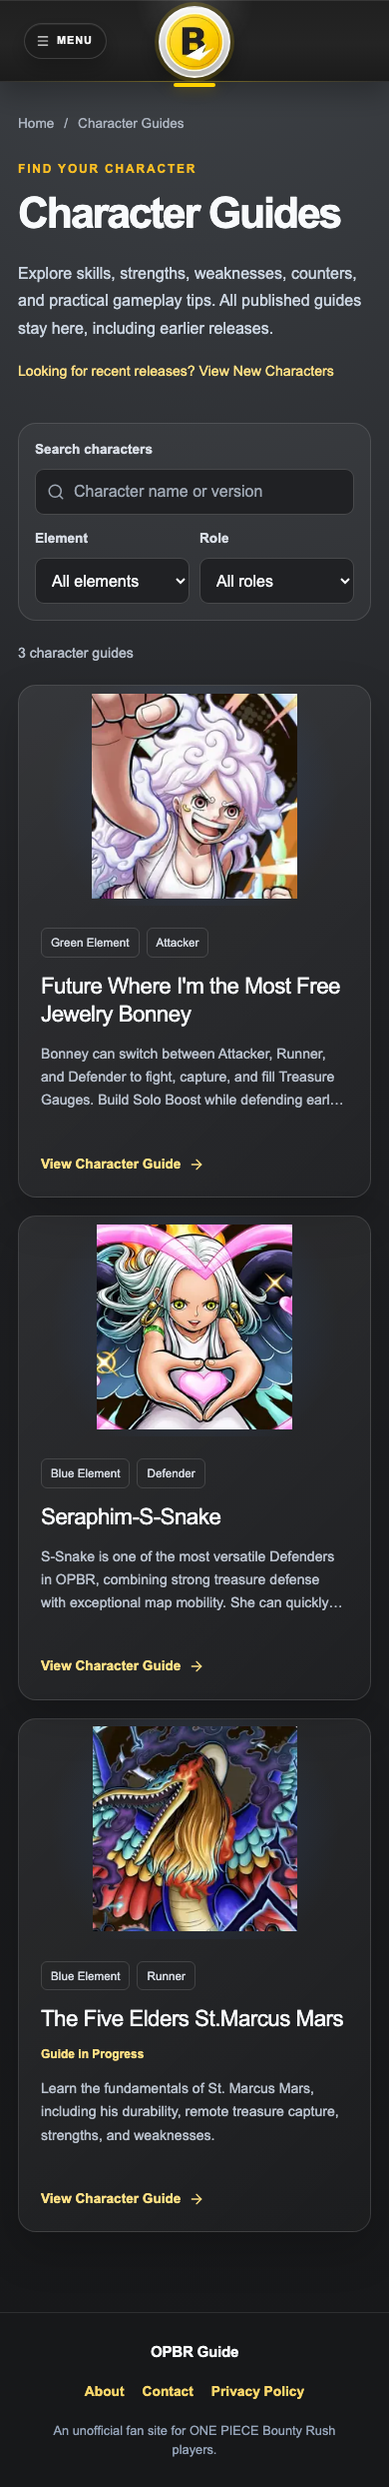
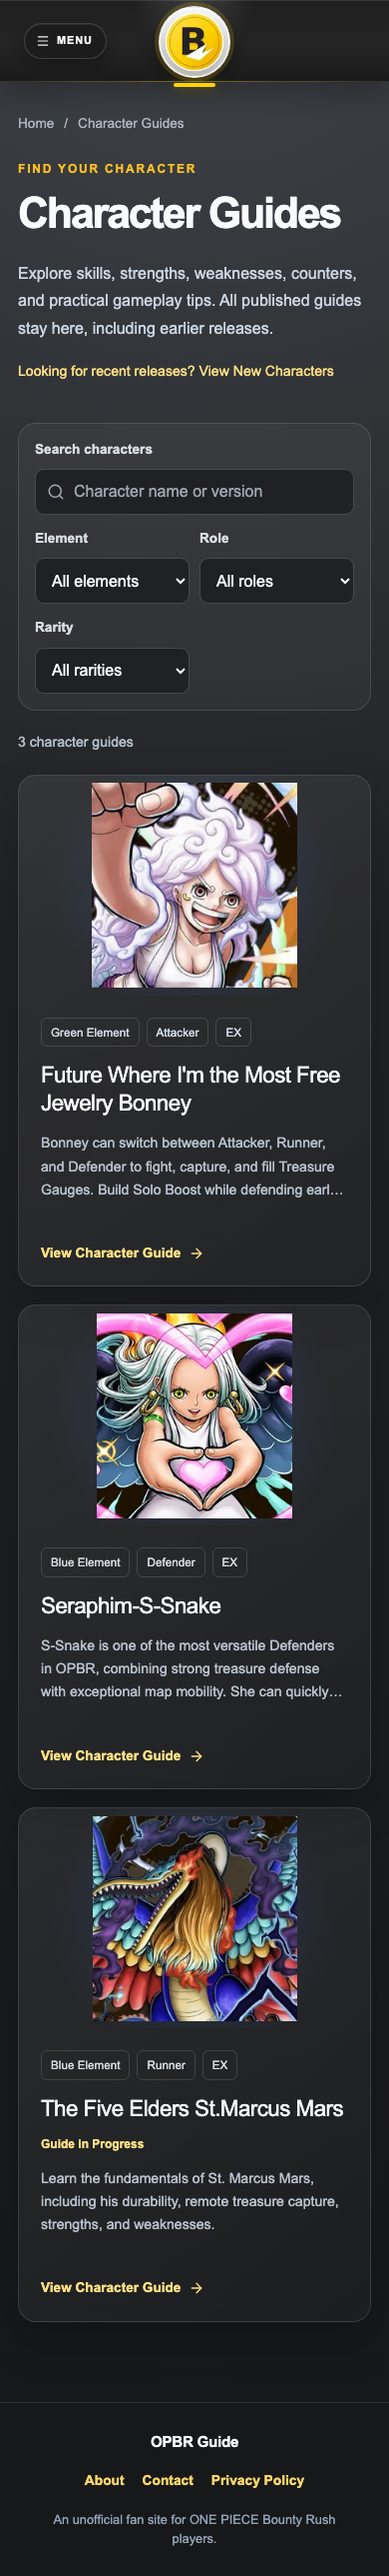
Add shared Simulator rarity filter to Character Guides

diff --git a/src/app/(mainPages)/character-guides/CharacterGuideDirectory.tsx b/src/app/(mainPages)/character-guides/CharacterGuideDirectory.tsx
@@ -4,6 +4,8 @@ import { useState } from "react";
 import Image from "next/image";
 import Link from "next/link";
 import { ArrowRight, Search } from "lucide-react";
+import { characterGradeLabels } from "@/data/characters/grades";
+import type { Character } from "@/data/characters/type";
 import { filterCharacterGuideEntries, type CharacterGuideEntry } from "@/lib/character-guide-directory";
 import styles from "./page.module.css";
 
@@ -11,11 +13,14 @@ export default function CharacterGuideDirectory({ entries }: { entries: Characte
   const [query, setQuery] = useState("");
   const [element, setElement] = useState("");
   const [role, setRole] = useState("");
-  const visibleEntries = filterCharacterGuideEntries(entries, query, element, role);
+  const [grade, setGrade] = useState("");
+  const visibleEntries = filterCharacterGuideEntries(entries, query, element, role, grade);
+  const grades = (Object.keys(characterGradeLabels) as Character["grade"][])
+    .filter((value) => value !== "unknown" || entries.some((entry) => entry.grade === "unknown"));
   const elements = [...new Set(entries.map((entry) => entry.element))].sort();
   const roles = [...new Set(entries.map((entry) => entry.role))].sort();
-  const hasFilters = Boolean(query || element || role);
-  const resetFilters = () => { setQuery(""); setElement(""); setRole(""); };
+  const hasFilters = Boolean(query || element || role || grade);
+  const resetFilters = () => { setQuery(""); setElement(""); setRole(""); setGrade(""); };
 
   if (!entries.length) {
     return <section className={styles.empty} aria-labelledby="empty-heading">
@@ -49,6 +54,15 @@ export default function CharacterGuideDirectory({ entries }: { entries: Characte
             {roles.map((value) => <option key={value} value={value}>{value.charAt(0).toUpperCase() + value.slice(1)}</option>)}
           </select>
         </div>
+        <div className={styles.filterField}>
+          <label htmlFor="guide-rarity">Rarity</label>
+          <select id="guide-rarity" value={grade} onChange={(event) => setGrade(event.target.value)}>
+            <option value="">All rarities</option>
+            {grades.map((value) => <option key={value} value={value}>
+              {value === "unknown" ? `Unclassified (${characterGradeLabels[value]})` : characterGradeLabels[value]}
+            </option>)}
+          </select>
+        </div>
       </div>
       <div className={styles.results}>
         <p role="status" aria-live="polite" aria-atomic="true">
@@ -69,6 +83,7 @@ export default function CharacterGuideDirectory({ entries }: { entries: Characte
                 <div className={styles.cardBody}>
                   <div className={styles.badges}>
                     <span>{entry.element} element</span><span>{entry.role}</span>
+                    <span>{entry.grade === "unknown" ? `Unclassified (${characterGradeLabels[entry.grade]})` : characterGradeLabels[entry.grade]}</span>
                   </div>
                   <h2>{entry.name}</h2>
                   {entry.notice && <p className={styles.notice}>{entry.notice}</p>}

diff --git a/src/lib/character-guide-directory.ts b/src/lib/character-guide-directory.ts
@@ -1,7 +1,8 @@
+import { normalizeCharacterGrade } from "@/data/characters/grades";
 import type { CharacterGuide } from "@/data/character-guides/type";
 import type { Character } from "@/data/characters/type";
 
-export type CharacterGuideEntry = Pick<Character, "id" | "name" | "image" | "element" | "role"> & {
+export type CharacterGuideEntry = Pick<Character, "id" | "name" | "image" | "element" | "role" | "grade"> & {
   summary: string;
   notice?: string;
 };
@@ -16,9 +17,9 @@ export function createCharacterGuideEntries(
     if (guide.characterId !== id || !Object.hasOwn(characters, id)) {
       throw new Error(`Character Guide cannot resolve its character: ${id}`);
     }
-    const { name, image, element, role } = characters[id];
+    const { name, image, element, role, grade } = characters[id];
     return {
-      id, name, image, element, role,
+      id, name, image, element, role, grade: normalizeCharacterGrade(grade),
       summary: guide.guideOverview?.description?.trim() || guide.quickStrengths[0] || "",
       ...(guide.notice && { notice: guide.notice.title }),
     };
@@ -31,12 +32,13 @@ function normalizeSearch(value: string): string {
 }
 
 export function filterCharacterGuideEntries(
-  entries: CharacterGuideEntry[], query: string, element: string, role: string,
+  entries: CharacterGuideEntry[], query: string, element: string, role: string, grade = "",
 ): CharacterGuideEntry[] {
   const words = normalizeSearch(query).split(/\s+/).filter(Boolean);
   return entries.filter((entry) => {
     const name = normalizeSearch(entry.name);
     return (!element || entry.element === element) && (!role || entry.role === role)
+      && (!grade || entry.grade === grade)
       && words.every((word) => name.includes(word));
   });
 }

diff --git a/src/app/(mainPages)/character-guides/page.module.css b/src/app/(mainPages)/character-guides/page.module.css
@@ -9,7 +9,7 @@
 .relatedLink { display: inline-block; margin-top: 18px; color: #ffe084; font-size: .88rem; line-height: 1.6; text-underline-offset: 4px; }
 .relatedLink:hover { text-decoration: underline; }
 .directory { margin-top: 40px; }
-.filters { display: grid; grid-template-columns: minmax(0, 1fr) repeat(2, minmax(150px, .4fr)); gap: 16px; padding: 22px; border: 1px solid rgb(255 255 255 / 12%); border-radius: 18px; background: rgb(255 255 255 / 4%); }
+.filters { display: grid; grid-template-columns: minmax(0, 1fr) repeat(3, minmax(130px, .35fr)); gap: 16px; padding: 22px; border: 1px solid rgb(255 255 255 / 12%); border-radius: 18px; background: rgb(255 255 255 / 4%); }
 .filterField { display: flex; min-width: 0; flex-direction: column; gap: 9px; color: #d8dde5; font-size: .85rem; font-weight: 700; }
 .filters input, .filters select { width: 100%; min-width: 0; min-height: 46px; padding: 10px 12px; border: 1px solid rgb(255 255 255 / 18%); border-radius: 9px; background: #202124; color: #f8fafc; font-size: 1rem; font-weight: 400; }
 .filters input::placeholder { color: #9ea7b3; opacity: 1; }
@@ -40,7 +40,7 @@
 .empty h2 { margin: 0; font-size: 1.4rem; }
 .empty p { margin: 12px 0 22px; color: #b8c0cc; line-height: 1.6; }
 .content :is(a, button, input, select):focus-visible { outline: 3px solid #fbbf24; outline-offset: 4px; }
-@media (max-width: 1023px) { .grid { grid-template-columns: repeat(2, minmax(0, 1fr)); } }
+@media (max-width: 1023px) { .filters { grid-template-columns: repeat(3, minmax(0, 1fr)); } .searchLabel { grid-column: 1 / -1; } .grid { grid-template-columns: repeat(2, minmax(0, 1fr)); } }
 @media (max-width: 719px) {
   .page { padding: 32px 0 80px; }
   .content { padding-inline: 18px; }

diff --git a/src/components/character-frame/CharacterFrame.tsx b/src/components/character-frame/CharacterFrame.tsx
@@ -1,19 +1,7 @@
 import Image from "next/image";
+import { characterGradeLabels } from "@/data/characters/grades";
 import type { Character } from "@/data/characters/type";
 import styles from "./CharacterFrame.module.css";
-
-const gradeLabels: Record<Character["grade"], string> = {
-  ex: "EX",
-  bf: "BF",
-  sp: "SP",
-  "star-4": "4★",
-  "star-3": "3★",
-  "star-2": "2★",
-  free: "FREE",
-  exchange: "EXCH",
-  cola: "COLA",
-  unknown: "?",
-};
 
 const gradeStyles: Record<Character["grade"], string> = {
   ex: styles.ex,
@@ -42,7 +30,7 @@ export default function CharacterFrame({
 
   return (
     <div className={`${styles.frame} ${gradeStyles[character.grade]} ${sizeClass}`}>
-      <span className={styles.badge}>{gradeLabels[character.grade]}</span>
+      <span className={styles.badge}>{characterGradeLabels[character.grade]}</span>
       <Image
         className={styles.image}
         src={character.image}

diff --git a/src/data/characters/grades.ts b/src/data/characters/grades.ts
@@ -1,0 +1,22 @@
+import type { Character } from "./type";
+
+// Shared labels used by Scout Simulator result cards and guide filters.
+// These are the catalog's existing grades, not inferred star counts or names.
+export const characterGradeLabels: Record<Character["grade"], string> = {
+  ex: "EX",
+  bf: "BF",
+  sp: "SP",
+  "star-4": "4★",
+  "star-3": "3★",
+  "star-2": "2★",
+  free: "FREE",
+  exchange: "EXCH",
+  cola: "COLA",
+  unknown: "?",
+};
+
+export function normalizeCharacterGrade(value: unknown): Character["grade"] {
+  return typeof value === "string" && Object.hasOwn(characterGradeLabels, value)
+    ? value as Character["grade"]
+    : "unknown";
+}

diff --git a/docs/character-guides-qa/README.md b/docs/character-guides-qa/README.md
@@ -10,9 +10,9 @@ Implemented on `feat/character-guides` in `/Users/sasakiryou/Desktop/OPBR/opbr-c
 - Seraphim-S-Snake — blue / defender.
 - The Five Elders St.Marcus Mars — blue / runner, with its existing **Guide in Progress** notice.
 
-Names, portraits, element, and role come from the character catalog. Summaries come from the guide overview, falling back to its first quick strength. No guide text or character metadata is maintained twice. An unregistered character or draft is not listed. Nusjuro is absent at this committed base; registering its guide later makes it appear automatically after rebuilding.
+Names, portraits, element, role, and rarity grade come from the character catalog. Summaries come from the guide overview, falling back to its first quick strength. No guide text or character metadata is maintained twice. An unregistered character or draft is not listed. Nusjuro is absent at this committed base; registering its guide later makes it appear automatically after rebuilding.
 
-The list sorts by full version name; cards retain the full name and unique character ID/URL. Name search tolerates case, punctuation, and word order. Element and role options are derived only from listed entries. Search and both filters combine; result counts are announced with a polite live region. Clear filters and Show all guides reset all three controls. Empty registry and empty results have distinct states. Card portraits have explicit dimensions and decorative empty alt text because the full character name already labels each link. The first three portraits load eagerly; subsequent portraits load lazily. The client receives only projected card fields, not full guides or the entire character catalog.
+The list sorts by full version name; cards retain the full name and unique character ID/URL. Name search tolerates case, punctuation, and word order. Element and role options are derived only from listed entries. Rarity options use the shared Scout Simulator grade labels; unknown is offered only if a listed entry needs it. Name search and all three filters combine; result counts are announced with a polite live region. Clear filters and Show all guides reset all four controls. Empty registry and empty results have distinct states. Card portraits have explicit dimensions and decorative empty alt text because the full character name already labels each link. The first three portraits load eagerly; subsequent portraits load lazily. The client receives only projected card fields, not full guides or the entire character catalog.
 
 Home, the shared Menu, and New Characters link to the directory. Existing individual guide URLs/body/data stay unchanged. The directory has title, description, canonical, Open Graph/Twitter metadata, and a sitemap entry.
 
@@ -24,13 +24,13 @@ Place the supplied artwork in `public/home/character-guides.webp` and replace `i
 
 - `npm run lint`: pass, no warnings/errors.
 - `node node_modules/typescript/bin/tsc --noEmit --incremental false`: pass; production build also passed TypeScript.
-- `npm test`: 14/14 pass, including registry completeness, post-expiry availability, real summary projection, empty registry, name search/combined filters, and a newly registered alternate version.
+- `npm test`: 17/17 pass, including registry completeness, post-expiry availability, real summary projection, empty registry, name search/combined filters, and a newly registered alternate version.
 - `npm run build`: pass, Webpack / Next.js 16.3.4, 71 generated pages, `/character-guides` statically rendered. Existing Inter download uses the network. Logs saved alongside screenshots.
 - `TEST_BASE_URL=http://127.0.0.1:3203 npm run test:http`: 6/6 pass, covering all published routes, canonical/title/headings, 404/noindex, exact sitemap, registry links and real data, and Home/New Characters entry points.
-- Production Chromium: 1440, 390, and 320px. Verified exact card coverage, full names, generated filter options, combined/no-results/reset paths, every guide link, keyboard Tab/Enter/focus rings, Menu/Home entries, all existing Home links, image loading/alt/reserved dimensions, and no horizontal overflow. Expired Mars remains in the directory while absent from New Characters at the October 2 verification date.
+- Production Chromium: 1440, 390, and 320px. Verified exact card coverage, full names, generated filter options and shared rarity labels, four-control combined/no-results/reset paths, every guide link, keyboard Tab/Enter/focus rings, Menu/Home entries, all existing Home links, image loading/alt/reserved dimensions, and no horizontal overflow. Expired Mars remains in the directory while absent from New Characters at the October 2 verification date.
 - Read-only local fixtures rendered the actual directory component/CSS with zero entries and 24 distinct versions including a very long unbroken name. Verified zero-state UI, unique links, no horizontal overflow at 320px, and 21 lazy portraits after the first three. Fixture data was never registered or published. Fixtures cover layout/SSR; interactive filtering is tested against real production data.
 - JS runtime and relevant route/image assets: pass. The existing shared Vercel Analytics inclusion requests `/_vercel/insights/script.js` and returns 404 on the local production server. Those 18 console resource messages are recorded separately in `browser-results.txt`; the existing `src/app/layout.tsx` and analytics integration are unchanged.
-- Visual inspection: desktop/320/390 directory, Home entry, no-results, empty-registry, and long-name screenshots. At 320px the element/role controls stack to keep selected text readable; 390px retains two columns.
+- Visual inspection: desktop/320/390 directory, Home entry, no-results, empty-registry, and long-name screenshots. At 320px the element/role/rarity controls stack to keep selected text readable; 390px retains two columns.
 
 The first sandboxed HTTP run could not reach localhost; the same suite then passed with local network permission. No tests remain blocked. Disk space was checked before work (~14GiB) and after the build (~11GiB); installed dependencies were reused through an ignored `node_modules` symlink rather than reinstalled.
 
@@ -67,3 +67,15 @@ On another machine provide a local Playwright package directory through `PLAYWRI
 ## Original checkout preservation evidence
 
 Final main HEAD, index SHA-256, and `git status --porcelain` match the initial snapshot. The initial dirty set contains nine files (including files inside the untracked Nusjuro media directory). Hash comparisons show concurrent changes at 10:11:55 to Nusjuro's `changed-normal-attack.mp4`, `skill-1.mp4`, and `docs/character-guide-drafts/nusjuro.md`. This task only wrote to its dedicated sibling worktree and `/tmp`; it did not restore, stage, stash, or overwrite those original WIP files. The remaining six original dirty file hashes still match the snapshot. The three independently updated files were left as found. See `original-preservation.json` for comparison flags.
+
+## Rarity follow-up (based on c2afe762f1cd88854f8ab0f87443d5eadb479a68)
+
+Added an explicit Rarity selector, a card badge, and combined grade filtering. The existing full character version name search remains a name search. All rarities includes every registered guide; a grade with no registered guide shows the existing no-results/reset state. The current three registered guides are all `ex`; BF/SP/etc. correctly produce zero matches. No other checkout's new guide was imported.
+
+The character ID resolves its original `grade` from `src/data/characters` / `src/data/characters/type.ts`. The label map formerly local to `src/components/character-frame/CharacterFrame.tsx` is now shared in `src/data/characters/grades.ts`: `ex → EX`, `bf → BF`, `sp → SP`, `star-4 → 4★`, `star-3 → 3★`, `star-2 → 2★`, `free → FREE`, `exchange → EXCH`, `cola → COLA`, `unknown → ?`. CharacterFrame imports the same map, preserving Simulator labels, colors, sizing, and behavior. The directory projects only the grade field alongside existing card fields; no guide-side rarity assignments or name guessing were introduced.
+
+These are the Simulator's catalog grade categories. EX/BF/SP are retained as distinct categories and are not collapsed into 4★. `pickup` in `src/data/scouts/type.ts` is a banner-specific draw category, not a character grade, and is not offered as a Rarity option. Missing, invalid, or explicitly unknown values become `unknown` and display **Unclassified (?)** in this directory; they remain visible under All rarities and are independently filterable if present. Nothing is assigned EX/BF/4★ by inference. Character catalog/guide registry entries and all Scout rates/roll/stat logic are unchanged.
+
+Validation on the final app code: lint/type/build pass; 17/17 core tests; 6/6 HTTP tests; production Chromium 320/390/1440px with name + element + role + rarity combinations, BF zero results, all-field clear/show-all, keyboard Tab/Enter/focus, and overflow checks. Isolated actual-component fixtures verify all ten CharacterFrame grade labels and the conditional Unclassified option. Live Simulator deterministic single pulls verify EX, BF, and 4★ badges, three pulls/fifteen diamonds, and Reset. Existing local Vercel Analytics script 404s remain separately recorded. Updated screenshots and logs in this folder correspond to this follow-up. Disk space remained about 11GiB.
+
+Follow-up source changes: `src/data/characters/grades.ts`; `src/components/character-frame/CharacterFrame.tsx` (label import only); `src/lib/character-guide-directory.ts`; directory `CharacterGuideDirectory.tsx` and `page.module.css`; core/HTTP/browser tests. Home, shared Header, sitemap, published guide registry/content, character IDs/grades, and Scout Simulator draw logic were not edited in this follow-up. Work stays on `feat/character-guides` at the same persistent sibling worktree. No push/PR/merge/deploy.
